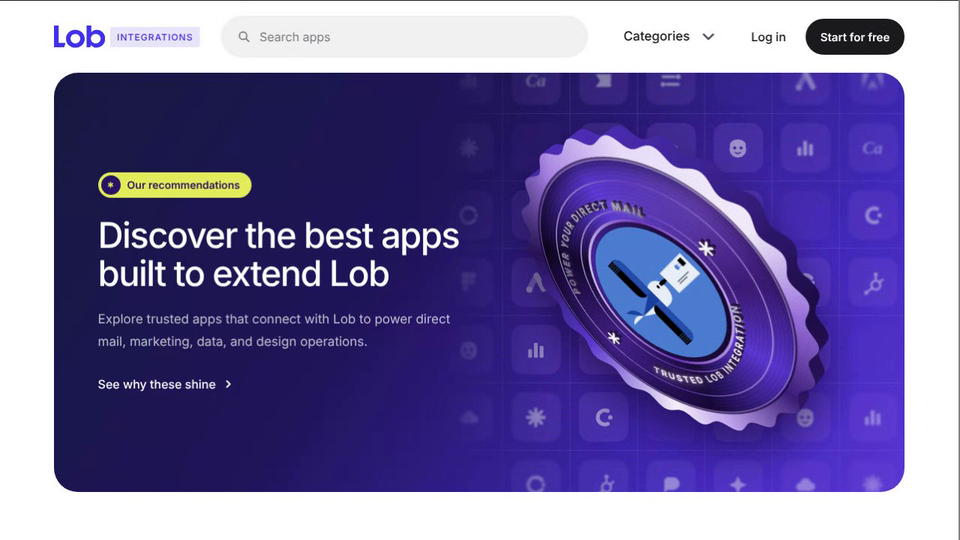
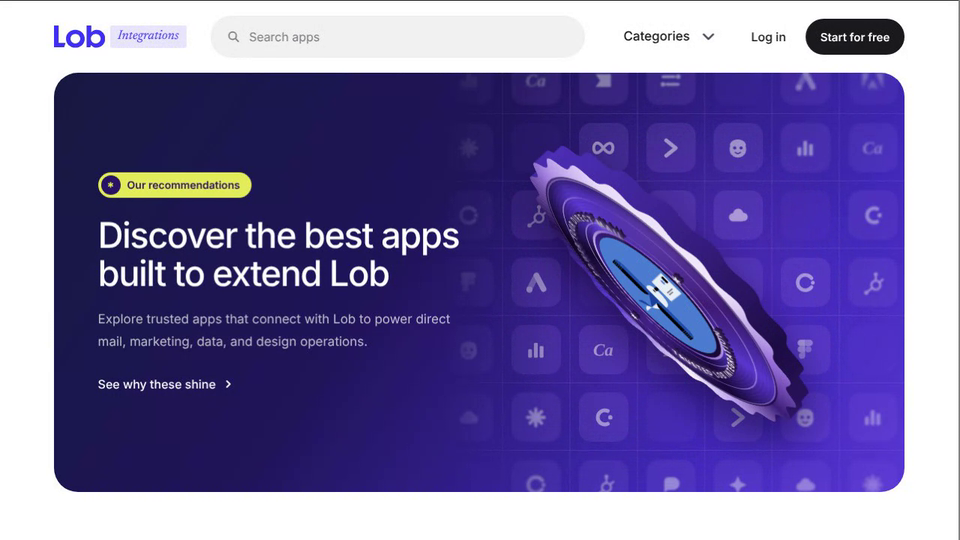
Lob Integrations Hero: smaller asterisks, serif italic Integrations label
Claude-Session: https://claude.ai/code/session_01AHeBdw5Dmhovddhvfinq8X

Changed region(s): [[0.5312, 0.237, 0.875, 0.8593], [0.125, 0.0296, 0.3438, 0.0889]]

diff --git a/lob-integrations-hero/index.html b/lob-integrations-hero/index.html
@@ -25,7 +25,7 @@ nav.back b{font-weight:500;color:#fff;overflow:hidden;text-overflow:ellipsis}
 .top{flex:none;height:96px;display:flex;align-items:center;gap:28px;padding:0 var(--gut)}
 .brand{isolation:isolate;display:flex;align-items:center;gap:7px;color:#16161a;text-decoration:none;white-space:nowrap}
 .brand .logo{height:30px;width:auto;display:block}
-.brand em{font:500 12px var(--sans);font-style:normal;letter-spacing:.09em;text-transform:uppercase;background:#e9e6fb;border-radius:3px;padding:6px 9px;color:#4131f1;white-space:nowrap}
+.brand em{font:italic 400 17px/1 var(--serif);background:#e9e6fb;border-radius:3px;padding:6px 10px 7px;color:#4131f1;white-space:nowrap}
 .search{flex:0 1 500px;margin:0 auto;display:flex;align-items:center;gap:12px;height:56px;padding:0 22px;border-radius:99px;background:#f1f1f1;color:#7a7a82;font-size:16px;min-width:0}
 .search svg{flex:none}
 .top .links{display:flex;align-items:center;gap:26px;white-space:nowrap;font-size:16px;font-weight:500}
@@ -245,7 +245,7 @@ function stack(inner,n,z0,dz,front){
   var R1=114,R2=126.4;
   function circ(r,ccw){return ccw?'M200 '+(200-r)+'A'+r+' '+r+' 0 1 0 200 '+(200+r)+'A'+r+' '+r+' 0 1 0 200 '+(200-r)+'Z':'M'+(200-r)+' 200A'+r+' '+r+' 0 1 1 '+(200+r)+' 200A'+r+' '+r+' 0 1 1 '+(200-r)+' 200Z'}
   var txt='font-family="Inter,Arial,sans-serif" font-weight="700" font-size="13" letter-spacing="2.8" fill="url(#bt)" stroke="#fff" stroke-opacity=".55" stroke-width=".35" paint-order="stroke" text-anchor="middle"';
-  var dots='';[0,180].forEach(function(a){var t=a*Math.PI/180;dots+='<g class="as" transform="translate('+(200+120*Math.cos(t)).toFixed(1)+' '+(200+120*Math.sin(t)).toFixed(1)+')"><path d="M0-8V8M-6.9-4 6.9 4M-6.9 4 6.9-4" fill="none" stroke="url(#bt)" stroke-width="3.2" stroke-linecap="round"/></g>'});
+  var dots='';[0,180].forEach(function(a){var t=a*Math.PI/180;dots+='<g class="as" transform="translate('+(200+120*Math.cos(t)).toFixed(1)+' '+(200+120*Math.sin(t)).toFixed(1)+')"><path d="M0-5V5M-4.3-2.5 4.3 2.5M-4.3 2.5 4.3-2.5" fill="none" stroke="url(#bt)" stroke-width="2.4" stroke-linecap="round"/></g>'});
   /* the raised part: ring lettering, dots and the link, shared by every layer of the stack */
   var raised=function(f){
     return '<text '+txt+'><textPath href="#pTop" startOffset="25%">POWER YOUR DIRECT MAIL</textPath></text>'+
